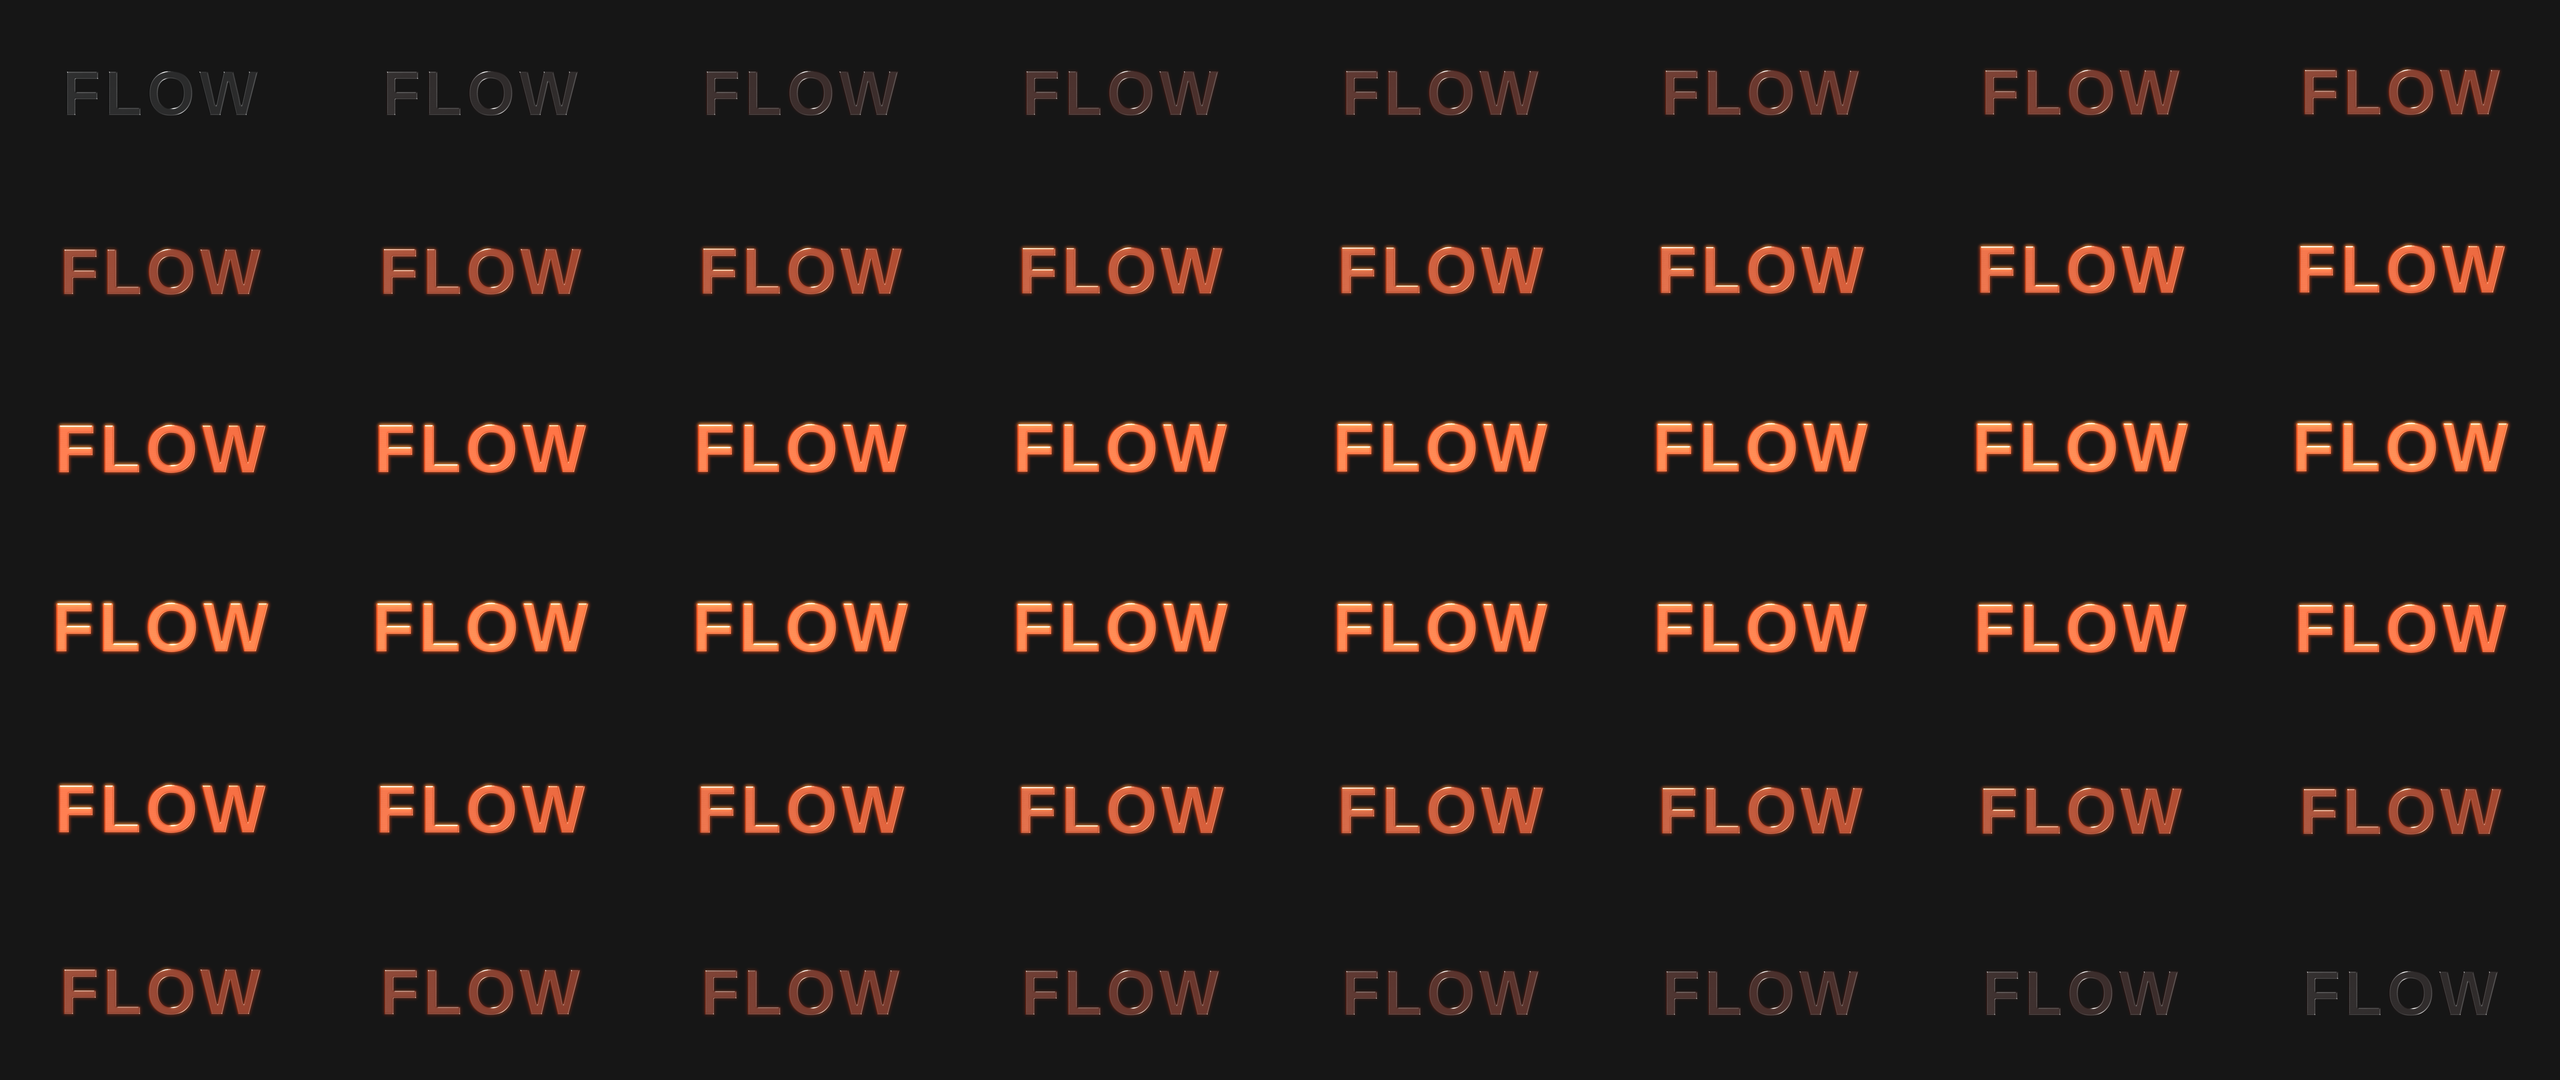
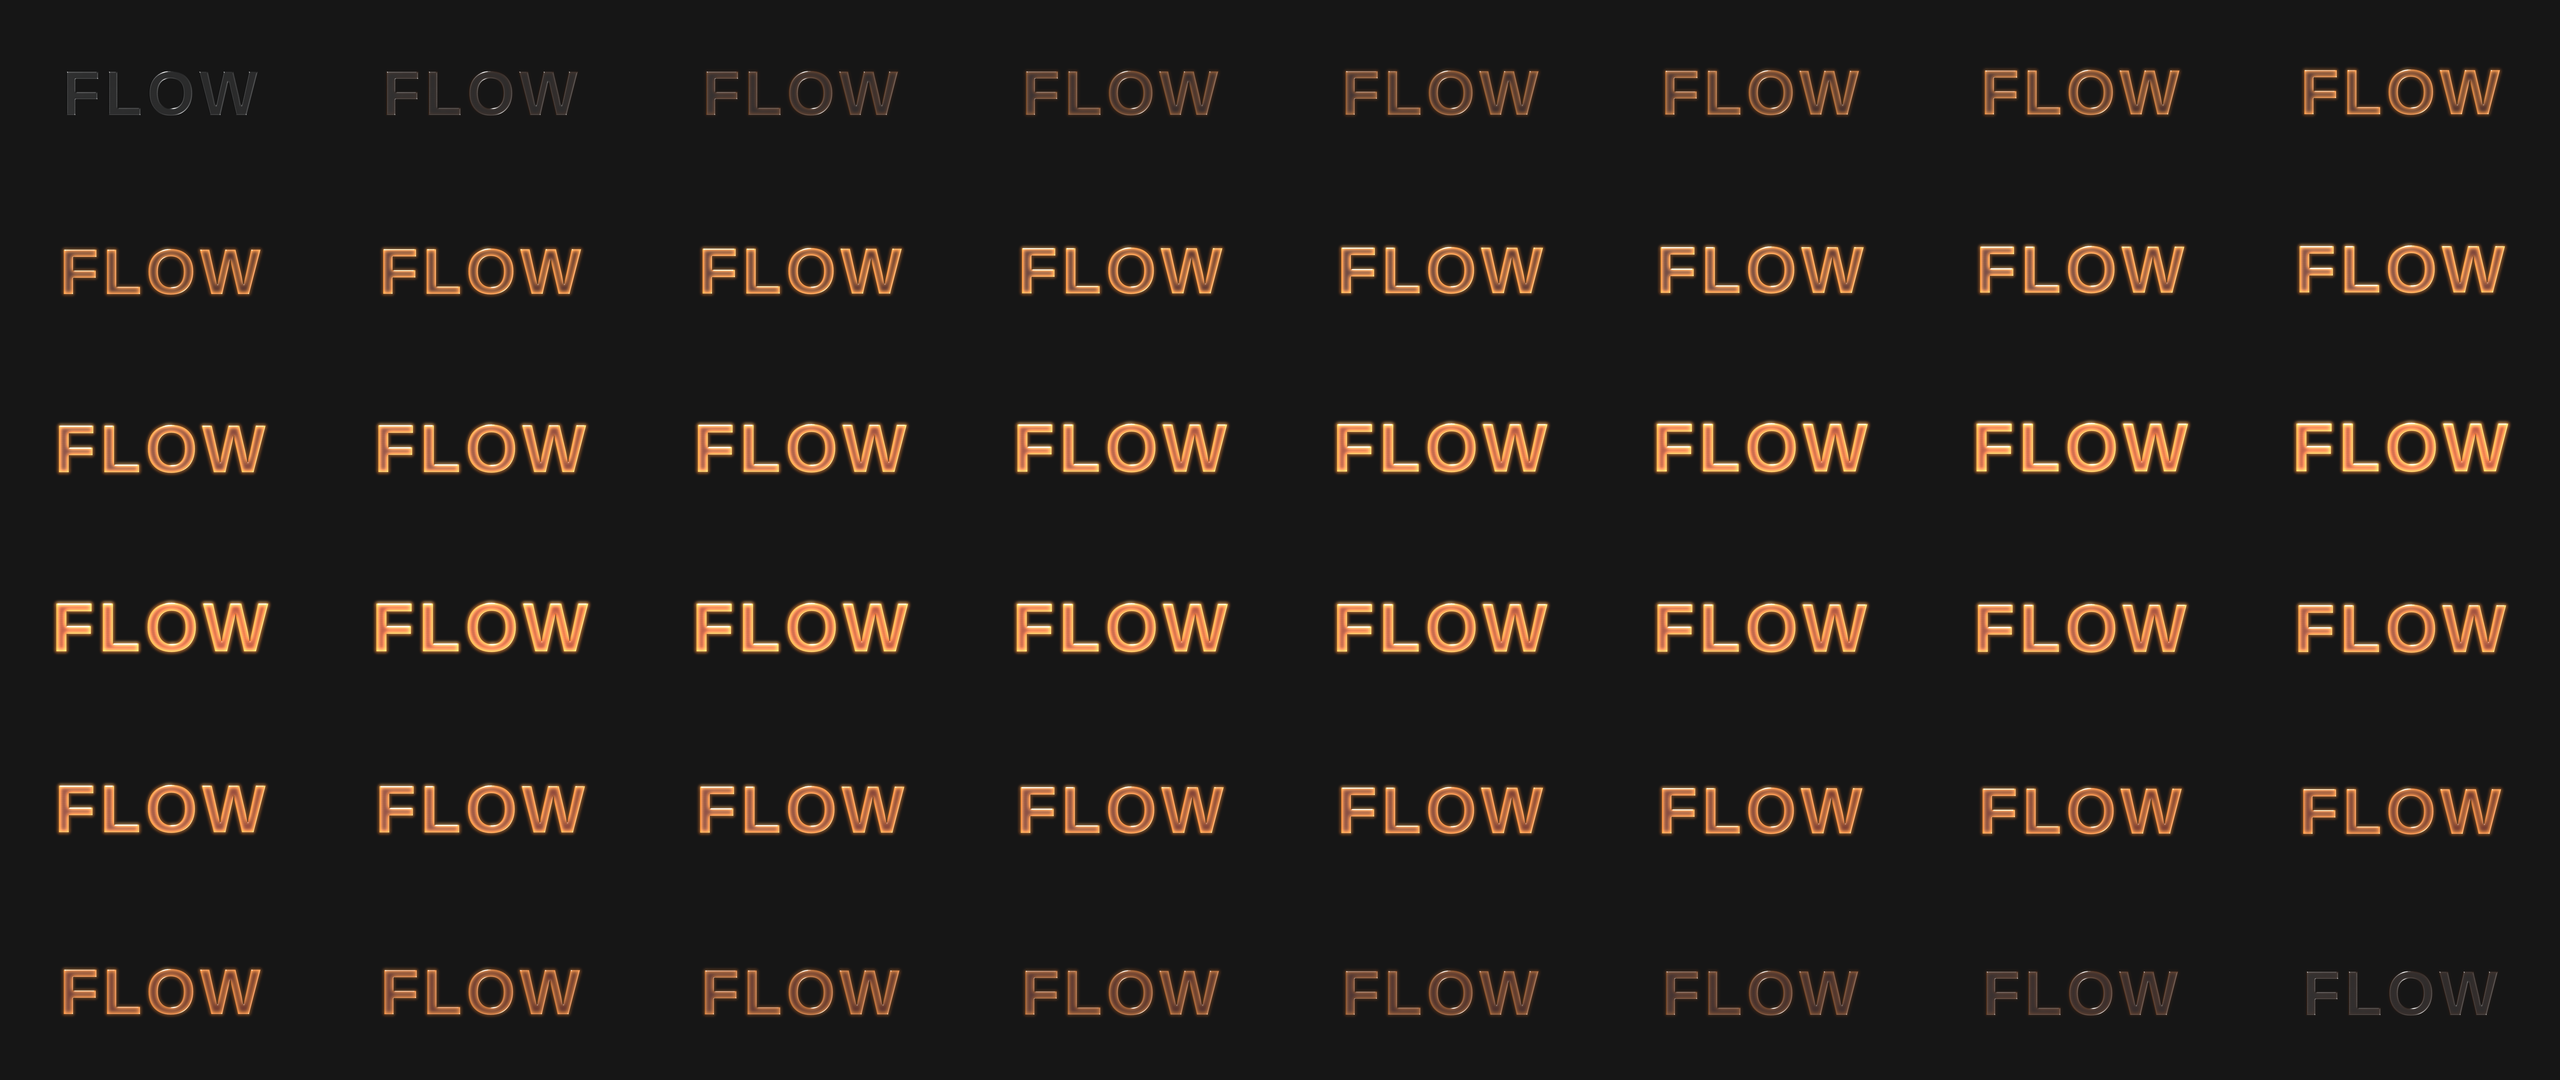
Heat thin parts of Heat to Embers first and hottest
The recipe heated the whole title evenly, which reads as a colour fade
rather than hot metal: thin parts hold less heat mass and glow first.
The title minus its own gaussian blur now marks edges, corners and thin
strokes, which take a yellow-white heat that leads and outlasts the
deep-red glow of thicker parts, with the ember halo coming from them.
Edge heat and the thickness that stays cooler are new controls.

diff --git a/crates/veylvik-document/src/presets/builtin/animated.rs b/crates/veylvik-document/src/presets/builtin/animated.rs
@@ -72,48 +72,7 @@ pub fn build(id: &str, b: &mut Builder, source: NodeId) -> Result<Option<NodeId>
             }
             glints
         }
-        "heat_to_embers" => {
-            let steel = look(b, source, "brushed_steel")?;
-            let heat = keyed(true, &[(0, 0.0), (2, 1.0), (4, 0.0)]);
-            // The metal's own brightness picks the colour: dark areas glow deep red,
-            // highlights white-hot, as heated steel does.
-            let glow = b.add(
-                "Heat colour",
-                Operation::Colorize(crate::nodes::Colorize {
-                    low: [0.6, 0.04, 0.0, 1.0],
-                    high: [4.0, 1.4, 0.25, 1.0],
-                }),
-                &[("image", steel)],
-            );
-            let core = b.add(
-                "Glowing metal",
-                Operation::Blend(crate::nodes::Blend {
-                    mode: BlendMode::Add,
-                    opacity: heat.clone(),
-                }),
-                &[("background", steel), ("foreground", glow)],
-            );
-            let halo = b.add(
-                "Ember halo",
-                Operation::Blur(crate::nodes::Blur {
-                    radius: 14.0.into(),
-                    filter: crate::nodes::BlurFilter::Gaussian,
-                }),
-                &[("image", glow)],
-            );
-            let out = b.add(
-                "Heat haze glow",
-                Operation::Blend(crate::nodes::Blend {
-                    mode: BlendMode::Add,
-                    opacity: keyed(true, &[(0, 0.0), (2, 0.6), (4, 0.0)]),
-                }),
-                &[("background", core), ("foreground", halo)],
-            );
-            b.expose(core, "opacity", "Heat")?;
-            b.expose(out, "opacity", "Glow")?;
-            b.expose(halo, "radius", "Glow spread")?;
-            out
-        }
+        "heat_to_embers" => heat_to_embers(b, source)?,
         "rust_spreading" => {
             let steel = look(b, source, "brushed_steel")?;
             let rust = b.add(
@@ -311,5 +270,88 @@ fn paper_burn(b: &mut Builder, source: NodeId) -> Result<NodeId> {
     b.expose(front, "stops", "Burn progress")?;
     b.expose(noise, "scale", "Burn pattern size")?;
     b.expose(glow, "radius", "Ember glow")?;
+    Ok(out)
+}
+
+/// Steel heating to embers and cooling. Thin parts carry little metal, so edges,
+/// corners and thin strokes heat first and hotter (yellow-white) while thick parts
+/// lag behind at a deep red. Thinness is the shape minus its own blur.
+fn heat_to_embers(b: &mut Builder, source: NodeId) -> Result<NodeId> {
+    let steel = look(b, source, "brushed_steel")?;
+    let body = b.add(
+        "Metal mass",
+        Operation::Blur(crate::nodes::Blur {
+            radius: 18.0.into(),
+            filter: crate::nodes::BlurFilter::Gaussian,
+        }),
+        &[("image", source)],
+    );
+    let thin = b.add(
+        "Thin parts",
+        Operation::CombineMask(crate::nodes::CombineMask {
+            mode: MaskMode::Subtract,
+        }),
+        &[("mask", source), ("other", body)],
+    );
+    // The metal's own brightness picks the colour within each heat level.
+    let red = b.add(
+        "Red heat",
+        Operation::Colorize(crate::nodes::Colorize {
+            low: [0.5, 0.03, 0.0, 1.0],
+            high: [2.2, 0.55, 0.08, 1.0],
+        }),
+        &[("image", steel)],
+    );
+    let white = b.add(
+        "White heat",
+        Operation::Colorize(crate::nodes::Colorize {
+            low: [3.0, 1.0, 0.15, 1.0],
+            high: [7.0, 4.2, 1.6, 1.0],
+        }),
+        &[("image", steel)],
+    );
+    let edges = b.add(
+        "Hot edges",
+        Operation::Mask(crate::nodes::Mask {}),
+        &[("image", white), ("mask", thin)],
+    );
+    let warm = b.add(
+        "Glowing metal",
+        Operation::Blend(crate::nodes::Blend {
+            mode: BlendMode::Add,
+            opacity: keyed(true, &[(0, 0.0), (1, 0.15), (2, 0.8), (3, 0.3), (4, 0.0)]),
+        }),
+        &[("background", steel), ("foreground", red)],
+    );
+    // Edges lead: hot before the body warms and still glowing as it cools.
+    let hot = b.add(
+        "Glowing edges",
+        Operation::Blend(crate::nodes::Blend {
+            mode: BlendMode::Add,
+            opacity: keyed(true, &[(0, 0.0), (1, 0.7), (2, 1.0), (3, 0.55), (4, 0.0)]),
+        }),
+        &[("background", warm), ("foreground", edges)],
+    );
+    let halo = b.add(
+        "Ember halo",
+        Operation::Blur(crate::nodes::Blur {
+            radius: 14.0.into(),
+            filter: crate::nodes::BlurFilter::Gaussian,
+        }),
+        &[("image", edges)],
+    );
+    let out = b.add(
+        "Heat haze glow",
+        Operation::Blend(crate::nodes::Blend {
+            mode: BlendMode::Add,
+            opacity: keyed(true, &[(0, 0.0), (1, 0.3), (2, 0.6), (3, 0.3), (4, 0.0)]),
+        }),
+        &[("background", hot), ("foreground", halo)],
+    );
+    b.expose(warm, "opacity", "Heat")?;
+    b.expose(hot, "opacity", "Edge heat")?;
+    b.expose(body, "radius", "Thickness that stays cooler")?;
+    b.expose(out, "opacity", "Glow")?;
+    b.expose(halo, "radius", "Glow spread")?;
     Ok(out)
 }

diff --git a/crates/veylvik-document/src/presets/builtin.rs b/crates/veylvik-document/src/presets/builtin.rs
@@ -44,7 +44,7 @@ pub const ALL: [Builtin; 74] = [
     Builtin {
         id: "heat_to_embers",
         label: "Heat to Embers",
-        description: "Brushed steel that heats to a deep-red-to-white glow with an ember halo and cools again. Heat, Glow and Glow spread stay keyable.",
+        description: "Brushed steel that heats to embers and cools again. Edges, corners and thin strokes heat first and glow yellow-white while thicker parts stay deep red, with an ember halo. Heat, Edge heat, Glow, Glow spread and the thickness that stays cooler are editable.",
     },
     Builtin {
         id: "paper_burn",

diff --git a/docs/reference.md b/docs/reference.md
@@ -530,8 +530,9 @@ strokes. Output colour and alpha mix like the inputs, so both should share a sha
 
 Seven animated recipes loop over four seconds as editable groups: **Chrome Shine
 Sweep** (a shine travels across mirror chrome), **Glint Reveal** (rose-gold glints
-flare, hold and fade), **Heat to Embers** (brushed steel glows from deep red to
-white-hot with an ember halo, then cools; Heat, Glow and Glow spread are keyable)
+flare, hold and fade), **Heat to Embers** (steel heats to embers and cools; thin parts heat first and
+hotter: the title minus its own gaussian blur marks edges, corners and thin strokes,
+which glow yellow-white and lead the heat, while thicker parts lag at a deep red)
 **Rust Spreading** (rust patches grow over steel and recede), **Chipping Paint** (red
 car paint chips off brushed steel from the edges and comes back, through Layered
 material),
